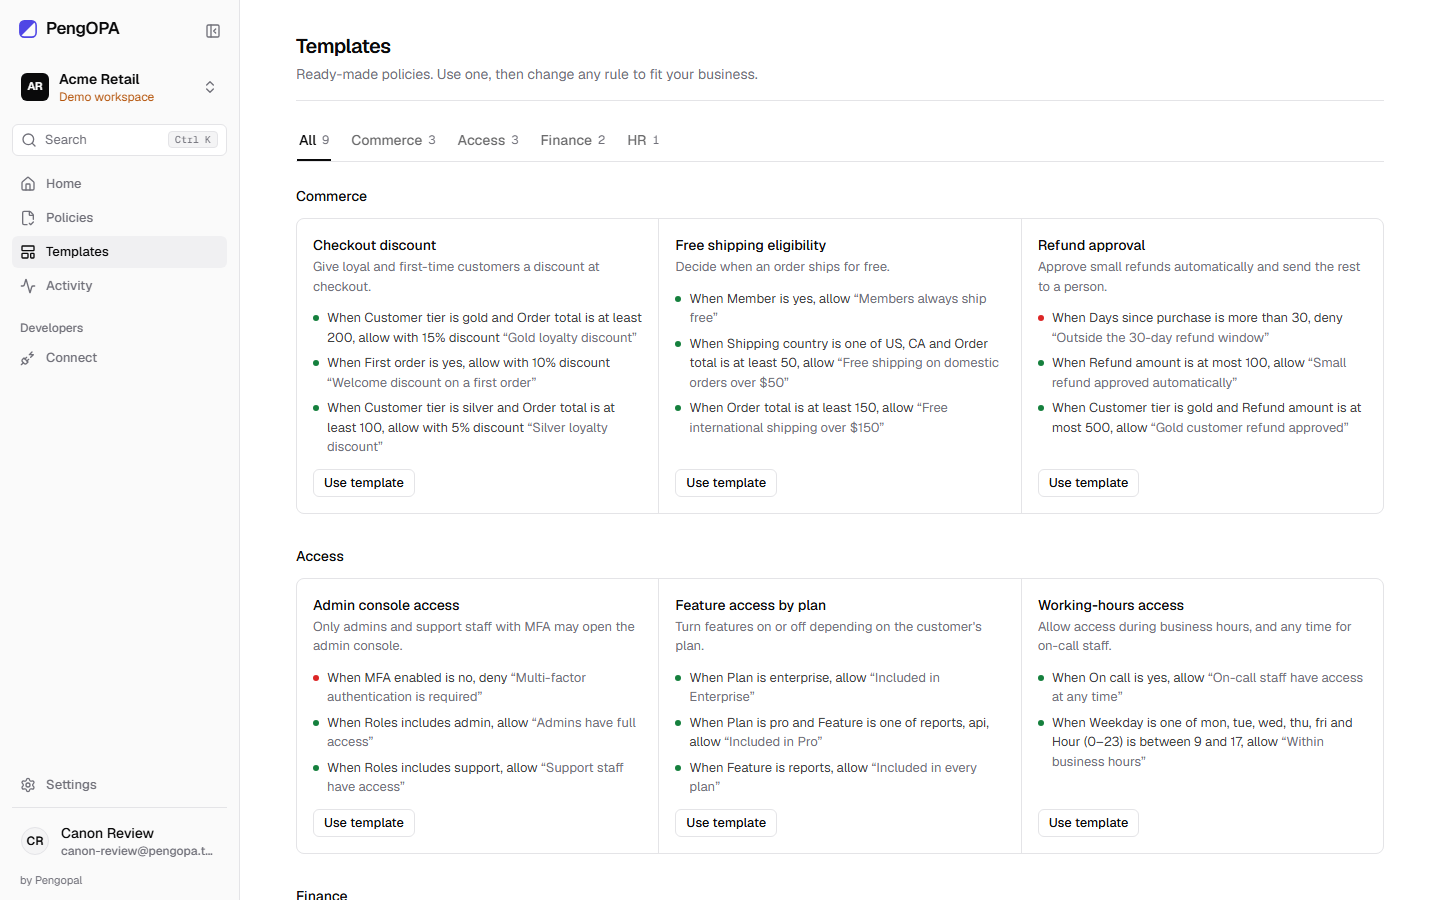
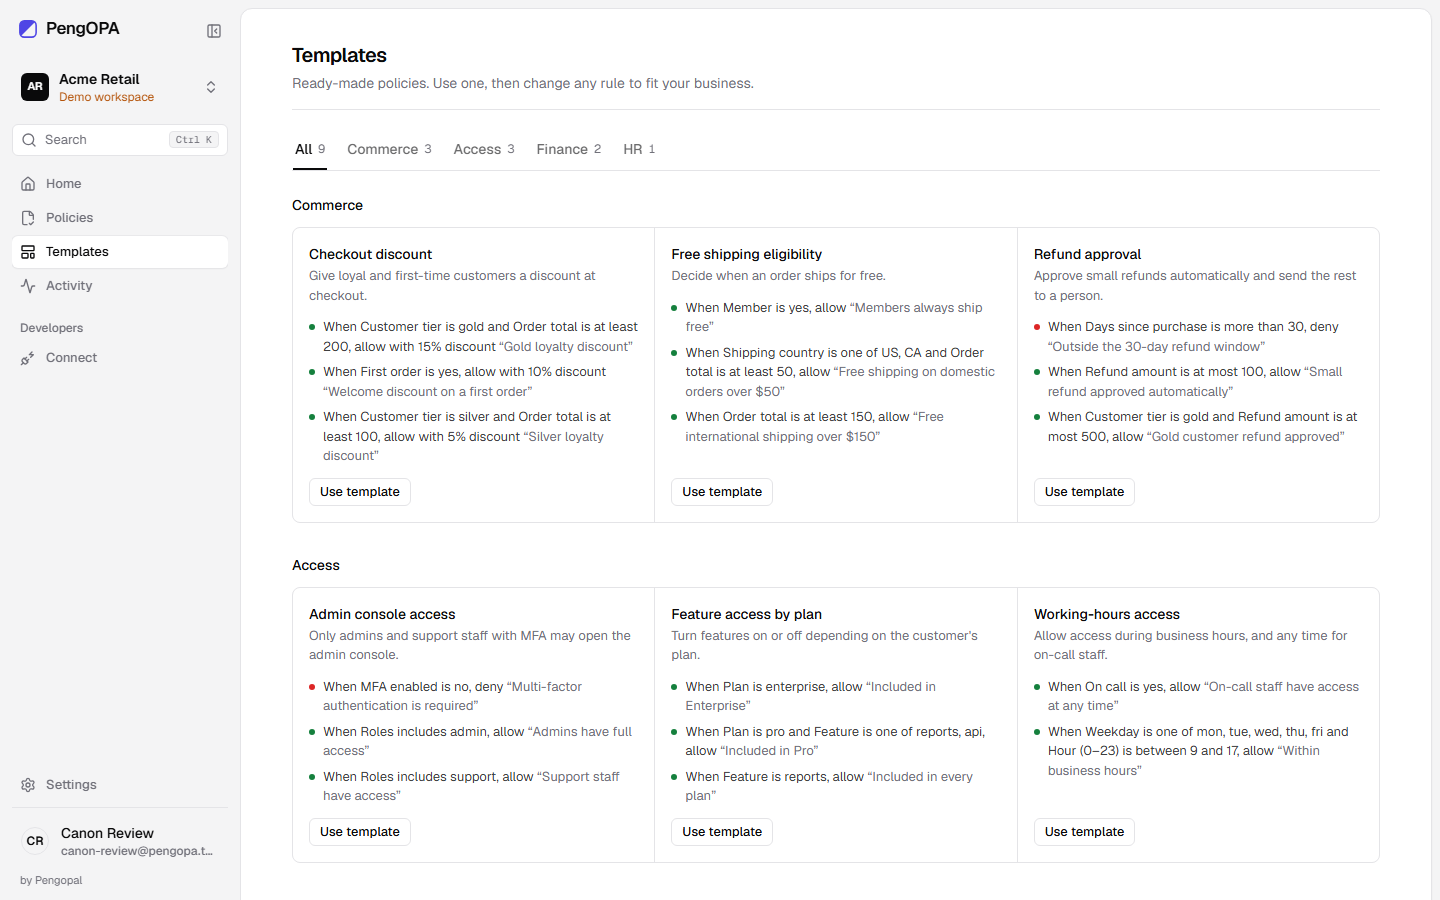
feat(web): product screenshots on the landing page; grey app frame with inset page panel and section panels

diff --git a/apps/web/src/pages/landing/ProductTour.tsx b/apps/web/src/pages/landing/ProductTour.tsx
@@ -1,0 +1,56 @@
+import { cn } from "@/lib/utils";
+
+/** A real app screen (from the demo workspace) in a light window frame, swapped for its dark capture in dark mode. */
+function Shot({ name, alt, eager = false, className }: { name: string; alt: string; eager?: boolean; className?: string }) {
+  const img = "block h-auto w-full";
+  const loading = eager ? "eager" : "lazy";
+  return (
+    <div className={cn("overflow-hidden rounded-xl border bg-sidebar p-1.5 shadow-[0_24px_48px_-24px_rgb(10_10_11/0.25)]", className)}>
+      <div className="overflow-hidden rounded-lg border bg-background">
+        <img src={`/landing/${name}-light.webp`} alt={alt} width={2160} height={1200} loading={loading} decoding="async" className={cn(img, "dark:hidden")} />
+        <img src={`/landing/${name}-dark.webp`} alt="" aria-hidden width={2160} height={1200} loading="lazy" decoding="async" className={cn(img, "hidden dark:block")} />
+      </div>
+    </div>
+  );
+}
+
+const SCREENS = [
+  { name: "home", title: "Home", body: "Today’s decisions, the allow rate and response time, with the last two weeks at a glance.", alt: "PengOPA Home: decisions today, allow rate, live policies, response time, a 14-day chart and the latest decisions" },
+  { name: "activity", title: "Activity", body: "Every decision with its input, the rule that matched and where it came from. Filter, open, replay.", alt: "PengOPA Activity: a filterable log of decisions with policy, result, matched rule and source" },
+  { name: "connect", title: "Connect", body: "Pick a policy, copy a ready-made request in curl, JavaScript, Python or C#, and create an API key.", alt: "PengOPA Connect: steps to call a policy, a code sample and API keys" },
+];
+
+/** Real screens from the app, so visitors see what they would use before they sign up. */
+export function ProductTour() {
+  return (
+    <section id="product" aria-labelledby="product-heading" className="scroll-mt-16 border-t bg-sidebar">
+      <div className="mx-auto max-w-6xl px-4 py-16 sm:px-6 sm:py-20">
+        <div className="max-w-2xl">
+          <h2 id="product-heading" className="text-2xl font-semibold tracking-tight text-balance sm:text-3xl">
+            See the whole thing before you sign up
+          </h2>
+          <p className="mt-3 text-[15px] text-pretty text-muted-foreground">
+            These are real screens from the Acme Retail demo workspace. Here the Checkout discount policy has just been tested: rule 1 matched, and the answer explains why.
+          </p>
+        </div>
+
+        <figure className="mt-10">
+          <Shot name="editor" eager alt="The PengOPA policy editor: Checkout discount's rules written as sentences, rule 1 marked Matched, and the Try it panel showing Allowed with a 15% discount" />
+          <figcaption className="mt-3 text-sm text-muted-foreground">
+            <span className="font-medium text-foreground">Policy editor.</span> Change a value inline, run a sample, and see which rule decided before you publish.
+          </figcaption>
+        </figure>
+
+        <ul className="mt-12 grid gap-10 md:grid-cols-3 md:gap-6">
+          {SCREENS.map((s) => (
+            <li key={s.name}>
+              <Shot name={s.name} alt={s.alt} />
+              <h3 className="mt-4 font-medium">{s.title}</h3>
+              <p className="mt-1 text-sm text-pretty text-muted-foreground">{s.body}</p>
+            </li>
+          ))}
+        </ul>
+      </div>
+    </section>
+  );
+}

diff --git a/apps/web/src/pages/landing/Landing.tsx b/apps/web/src/pages/landing/Landing.tsx
@@ -9,6 +9,7 @@ import { openPublicDemo } from "@/lib/demo";
 import { cn } from "@/lib/utils";
 import { DecisionPreview } from "./DecisionPreview";
 import { LandingNav } from "./LandingNav";
+import { ProductTour } from "./ProductTour";
 
 const AUDIENCES = [
   { who: "Ops", what: "writes and changes the rules, without code" },
@@ -110,9 +111,9 @@ function Actions() {
 }
 
 /** A section's heading and lead, left-aligned above a 1px rule. */
-function Section({ id, title, lead, children }: { id: string; title: string; lead: string; children: ReactNode }) {
+function Section({ id, title, lead, tinted = false, children }: { id: string; title: string; lead: string; tinted?: boolean; children: ReactNode }) {
   return (
-    <section id={id} aria-labelledby={`${id}-heading`} className="scroll-mt-16 border-t">
+    <section id={id} aria-labelledby={`${id}-heading`} className={cn("scroll-mt-16 border-t", tinted && "bg-sidebar")}>
       <div className="mx-auto grid max-w-6xl gap-8 px-4 py-16 sm:px-6 sm:py-20 lg:grid-cols-[18rem_minmax(0,1fr)] lg:gap-16">
         <div>
           <h2 id={`${id}-heading`} className="text-2xl font-semibold tracking-tight text-balance">
@@ -158,6 +159,8 @@ export function Landing() {
           </div>
         </section>
 
+        <ProductTour />
+
         <Section id="how" title="How it works" lead="The people who own a rule change it themselves. The systems that need it ask for the answer.">
           <ol className="divide-y border-y">
             {STEPS.map((s, i) => (
@@ -175,12 +178,12 @@ export function Landing() {
           </ol>
         </Section>
 
-        <Section id="templates" title="Start from a template" lead="Nine ready-made policies with sample inputs to test against. Each one opens as a draft you can change.">
+        <Section id="templates" tinted title="Start from a template" lead="Nine ready-made policies with sample inputs to test against. Each one opens as a draft you can change.">
           <ul className="grid gap-px overflow-hidden rounded-lg border bg-border sm:grid-cols-2 lg:grid-cols-3">
             {TEMPLATES.map((t) => (
               <li key={t.name} className="bg-background p-4">
                 <h3 className="font-medium">
-                  {t.name} <span className="ml-1 text-sm font-normal text-muted-foreground">· {t.category}</span>
+                  {t.name} <span className="ml-1 text-sm font-normal whitespace-nowrap text-muted-foreground">· {t.category}</span>
                 </h3>
                 <p className="mt-1 text-sm text-pretty text-muted-foreground">{t.body}</p>
               </li>

diff --git a/apps/web/src/pages/home/RecentDecisions.tsx b/apps/web/src/pages/home/RecentDecisions.tsx
@@ -7,8 +7,8 @@ import type { RecentDecision } from "./insights";
 
 export function RecentDecisions({ items }: { items?: RecentDecision[] }) {
   return (
-    <section aria-labelledby="latest-heading" className="min-w-0">
-      <div className="flex items-center justify-between gap-3 border-b pb-2">
+    <section aria-labelledby="latest-heading" className="min-w-0 self-start overflow-hidden rounded-lg border">
+      <div className="flex items-center justify-between gap-3 border-b bg-muted/40 px-4 py-1.5">
         <h2 id="latest-heading" className="text-sm font-medium">
           Latest decisions
         </h2>
@@ -17,13 +17,13 @@ export function RecentDecisions({ items }: { items?: RecentDecision[] }) {
         </Button>
       </div>
       {!items ? (
-        <Skeleton className="mt-3 h-40 w-full" />
+        <Skeleton className="m-4 h-40" />
       ) : items.length === 0 ? (
-        <p className="pt-3 text-sm text-muted-foreground">No decisions yet. They appear here as soon as you test or call a policy.</p>
+        <p className="px-4 py-3 text-sm text-muted-foreground">No decisions yet. They appear here as soon as you test or call a policy.</p>
       ) : (
         <ul className="divide-y">
           {items.map((d) => (
-            <li key={d.id} className="flex items-center justify-between gap-3 py-2.5">
+            <li key={d.id} className="flex items-center justify-between gap-3 px-4 py-2.5">
               <span className="min-w-0">
                 <span className="block truncate text-sm font-medium">{d.policyName}</span>
                 <span className="block truncate text-xs text-muted-foreground">

diff --git a/apps/web/src/components/layout/Sidebar.tsx b/apps/web/src/components/layout/Sidebar.tsx
@@ -17,7 +17,7 @@ function NavLink({ item, collapsed }: { item: NavItem; collapsed: boolean }) {
       aria-label={collapsed ? label : undefined}
       className={cn(
         "flex h-8 items-center gap-2.5 rounded-md px-2 text-[13px] font-medium text-muted-foreground transition-colors hover:bg-sidebar-accent hover:text-foreground",
-        "data-[status=active]:bg-sidebar-accent data-[status=active]:text-sidebar-accent-foreground",
+        "data-[status=active]:bg-background data-[status=active]:text-foreground data-[status=active]:shadow-xs data-[status=active]:ring-1 data-[status=active]:ring-border/70",
         collapsed && "justify-center px-0",
       )}
     >
@@ -40,7 +40,7 @@ export function Sidebar({ collapsed, onToggle, onSearch }: { collapsed: boolean;
   const dev = NAV.filter((n) => n.group === "developers");
   const footer = NAV.filter((n) => n.group === "footer");
   return (
-    <div className="flex h-full flex-col gap-3 border-r bg-sidebar p-3 text-sidebar-foreground">
+    <div className="flex h-full flex-col gap-3 bg-sidebar p-3 text-sidebar-foreground">
       <div className={cn("flex items-center gap-1", collapsed ? "flex-col" : "justify-between pl-1.5")}>
         <Link to={HOME_PATH} aria-label="PengOPA home" className="rounded-md py-1">
           <Logo variant={collapsed ? "mark" : "full"} />

diff --git a/apps/web/src/pages/home/StatTiles.tsx b/apps/web/src/pages/home/StatTiles.tsx
@@ -4,7 +4,7 @@ import { dayDelta, type DayPoint, type Summary } from "./insights";
 
 function Metric({ label, value, note }: { label: string; value: string; note?: string }) {
   return (
-    <div className="bg-background px-4 py-3 first:pl-0 max-lg:odd:pl-0">
+    <div className="bg-background px-4 py-3">
       <dt className="text-[13px] text-muted-foreground">{label}</dt>
       <dd className="mt-1 text-2xl font-semibold tracking-tight" data-numeric>
         {value}
@@ -27,7 +27,7 @@ export function StatTiles({ summary, days }: { summary?: Summary; days?: DayPoin
   const rate = days && days.length > 1 && total(days[days.length - 2]) > 0 && summary.allowRateToday !== null ? dayDelta(days, allowRate) : null;
 
   return (
-    <dl className="grid grid-cols-2 gap-px border-y bg-border lg:grid-cols-4">
+    <dl className="grid grid-cols-2 gap-px overflow-hidden rounded-lg border bg-border lg:grid-cols-4">
       <Metric label="Decisions today" value={formatNumber(summary.decisionsToday)} note={yesterday !== null ? `${formatNumber(yesterday)} yesterday` : undefined} />
       <Metric
         label="Allow rate today"

diff --git a/apps/web/src/pages/home/DecisionsChart.tsx b/apps/web/src/pages/home/DecisionsChart.tsx
@@ -24,8 +24,8 @@ export function DecisionsChart({ days }: { days?: DayPoint[] }) {
   const total = days?.reduce((s, d) => s + d.allowed + d.denied, 0) ?? 0;
 
   return (
-    <section aria-labelledby="decisions-heading" className="min-w-0">
-      <div className="flex items-center justify-between gap-3 border-b pb-2">
+    <section aria-labelledby="decisions-heading" className="min-w-0 overflow-hidden rounded-lg border">
+      <div className="flex items-center justify-between gap-3 border-b bg-muted/40 px-4 py-1.5">
         <div className="flex min-w-0 items-baseline gap-2">
           <h2 id="decisions-heading" className="text-sm font-medium">
             Decisions, last 14 days
@@ -40,7 +40,7 @@ export function DecisionsChart({ days }: { days?: DayPoint[] }) {
           {asTable ? "Show chart" : "Show table"}
         </Button>
       </div>
-      <div className="pt-4">
+      <div className="p-4">
         {!days ? (
           <Skeleton className="h-64 w-full" />
         ) : asTable ? (

diff --git a/apps/web/src/index.css b/apps/web/src/index.css
@@ -86,11 +86,12 @@
     --radius: 0.5rem;
     --code: #0a0a0b;
     --code-foreground: #ededf0;
-    --sidebar: #fafafa;
+    /* App frame: the sidebar and the ground around the page panel share one soft grey; pages sit on white. */
+    --sidebar: #f4f4f5;
     --sidebar-foreground: #0a0a0b;
     --sidebar-primary: #4f46e5;
     --sidebar-primary-foreground: #ffffff;
-    --sidebar-accent: #f0f0f2;
+    --sidebar-accent: #e9e9ec;
     --sidebar-accent-foreground: #0a0a0b;
     --sidebar-border: #e4e4e7;
     --sidebar-ring: #4f46e5;
@@ -133,11 +134,11 @@
     --ring: #818cf8;
     --code: #0a0a0c;
     --code-foreground: #ededf0;
-    --sidebar: #0f0f11;
+    --sidebar: #060607;
     --sidebar-foreground: #fafafa;
     --sidebar-primary: #818cf8;
     --sidebar-primary-foreground: #0c0c0e;
-    --sidebar-accent: #1c1c1f;
+    --sidebar-accent: #18181b;
     --sidebar-accent-foreground: #fafafa;
     --sidebar-border: #27272a;
     --sidebar-ring: #818cf8;

diff --git a/apps/web/src/components/layout/AppShell.tsx b/apps/web/src/components/layout/AppShell.tsx
@@ -62,11 +62,11 @@ export function AppShell() {
 
   return (
     <TooltipProvider delayDuration={300}>
-      <div className="flex min-h-svh">
+      <div className="flex min-h-svh lg:bg-sidebar">
         <aside className={cn("sticky top-0 hidden h-svh shrink-0 transition-[width] duration-200 lg:block", collapsed ? "w-[68px]" : "w-60")}>
           <Sidebar collapsed={collapsed} onToggle={toggle} onSearch={() => setSearch(true)} />
         </aside>
-        <div className="flex min-w-0 flex-1 flex-col">
+        <div className="flex min-w-0 flex-1 flex-col bg-background lg:my-2 lg:mr-2 lg:min-h-[calc(100svh-1rem)] lg:rounded-xl lg:border lg:shadow-xs">
           <MobileTopBar onSearch={() => setSearch(true)} />
           <EngineBanner />
           <main className="mx-auto w-full max-w-6xl flex-1 px-4 pt-5 pb-28 sm:px-6 lg:px-8 lg:pt-8 lg:pb-10">

diff --git a/apps/web/src/pages/policy-editor/try-it/TryItPanel.tsx b/apps/web/src/pages/policy-editor/try-it/TryItPanel.tsx
@@ -41,7 +41,7 @@ export function TryItPanel({ policy, draft, canEdit, initialInput, setTryResult,
 
   return (
     <section aria-labelledby={bare ? undefined : "try-it-heading"} aria-label={bare ? "Try it" : undefined} className={bare ? undefined : "rounded-lg border"}>
-      <div className={cn("flex items-center gap-2", bare ? "justify-end pb-3" : "justify-between border-b px-4 py-2")}>
+      <div className={cn("flex items-center gap-2", bare ? "justify-end pb-3" : "justify-between border-b bg-muted/40 px-4 py-2")}>
         {!bare && (
           <h2 id="try-it-heading" className="text-sm font-medium">
             Try it

diff --git a/apps/web/src/components/DataList.tsx b/apps/web/src/components/DataList.tsx
@@ -64,10 +64,10 @@ export function DataList<T>({
   }
 
   return (
-    <div className="border-b">
+    <div className="overflow-hidden rounded-lg border">
       <Table aria-label={label}>
         <TableHeader>
-          <TableRow className="hover:bg-transparent">
+          <TableRow className="bg-muted/60 hover:bg-muted/60">
             {columns.map((c) => (
               <TableHead key={c.header} className={cn("h-8 text-xs font-medium text-muted-foreground", c.hideBelow === "lg" && "hidden lg:table-cell", c.className)}>
                 {c.header}

diff --git a/apps/web/src/pages/home/SetupChecklist.tsx b/apps/web/src/pages/home/SetupChecklist.tsx
@@ -14,7 +14,7 @@ export function SetupChecklist({ summary }: { summary: Summary }) {
 
   return (
     <section aria-labelledby="setup-heading" className="rounded-lg border">
-      <div className="flex items-center justify-between gap-3 border-b px-4 py-2.5">
+      <div className="flex items-center justify-between gap-3 border-b bg-muted/40 px-4 py-2.5">
         <h2 id="setup-heading" className="text-sm font-medium">
           Get set up
         </h2>

diff --git a/apps/web/src/pages/landing/LandingNav.tsx b/apps/web/src/pages/landing/LandingNav.tsx
@@ -6,6 +6,7 @@ import { Button } from "@/components/ui/button";
 import { Sheet, SheetContent, SheetTitle } from "@/components/ui/sheet";
 
 export const SECTIONS = [
+  { href: "#product", label: "Product" },
   { href: "#how", label: "How it works" },
   { href: "#templates", label: "Templates" },
   { href: "#security", label: "Security" },
